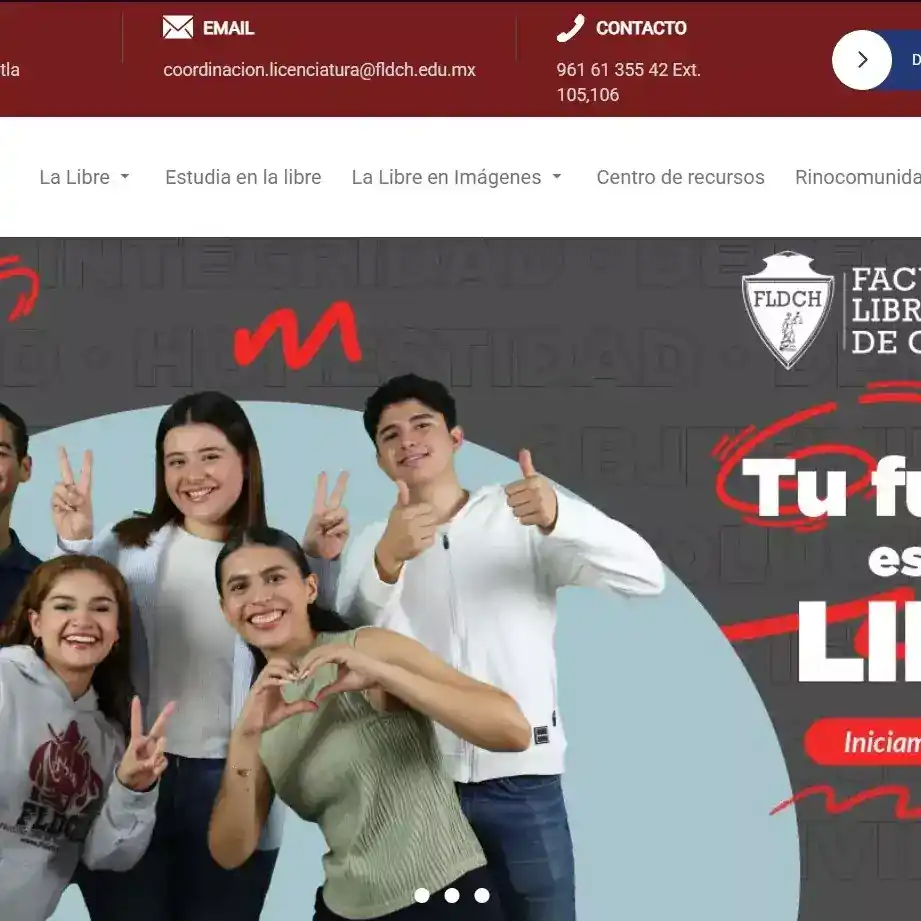
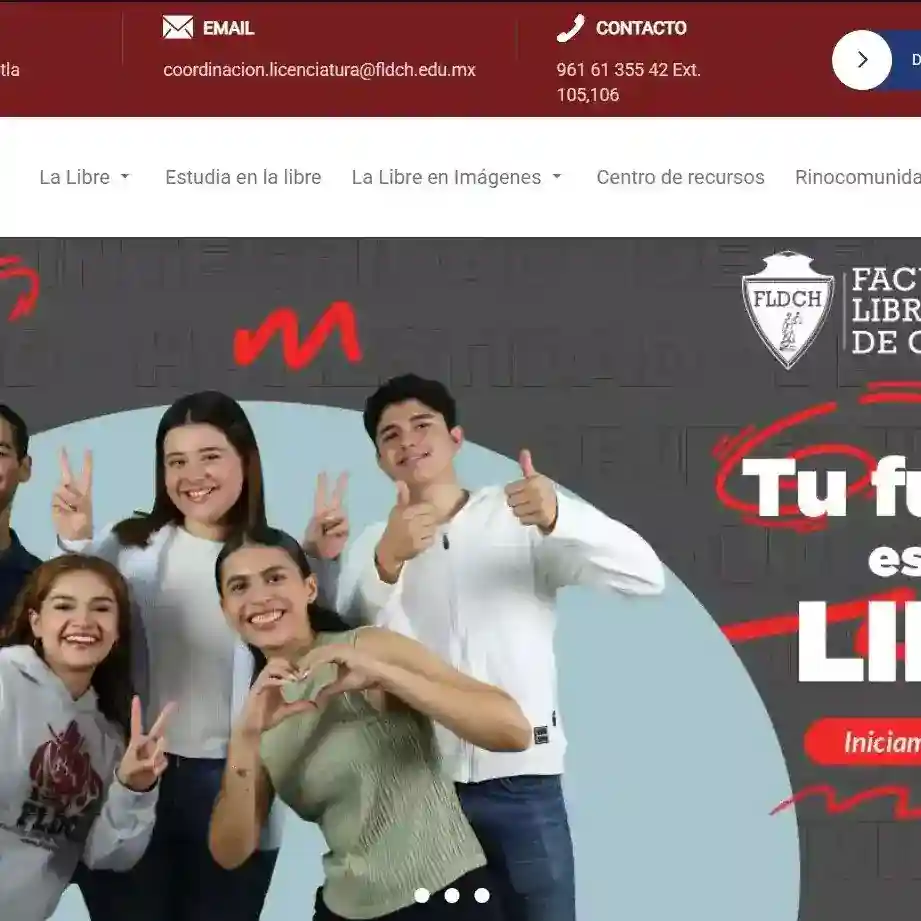
Properly size images fix

Changed region(s): [[0.9121, 0.7904, 1.0, 0.8208], [0.6688, 0.0608, 0.6992, 0.0912]]

diff --git a/public/index.html b/public/index.html
@@ -18,6 +18,8 @@
   <link rel="preload" href="https://paolaacp16.vercel.app/static/media/logonavdar.6c1806855d25e2095e5d.webp" as="image" />
   <link rel="preload" href="https://paolaacp16.vercel.app/static/media/circle.b3ec22ce994d88b7f8df.webp"  as="image"/>
 
+  <link rel="preload" href="/assets/PaolaACP.webp" as="image" type="image/webp" />
+
   <link rel="preload" href="./../src/assets/bgIMG.webp" />
   <link rel="preload" href="./../src/assets/circle.webp" />
   <link rel="preload" href="./../src/assets/PaolaACP.webp" />

diff --git a/src/components/Navbar/Navbar.scss b/src/components/Navbar/Navbar.scss
@@ -41,7 +41,7 @@
 
 .app__navbar-logo img {
   width: 150px;
-  height: 50px; 
+  height: auto; 
 }
 
 .app__navbar-links {
